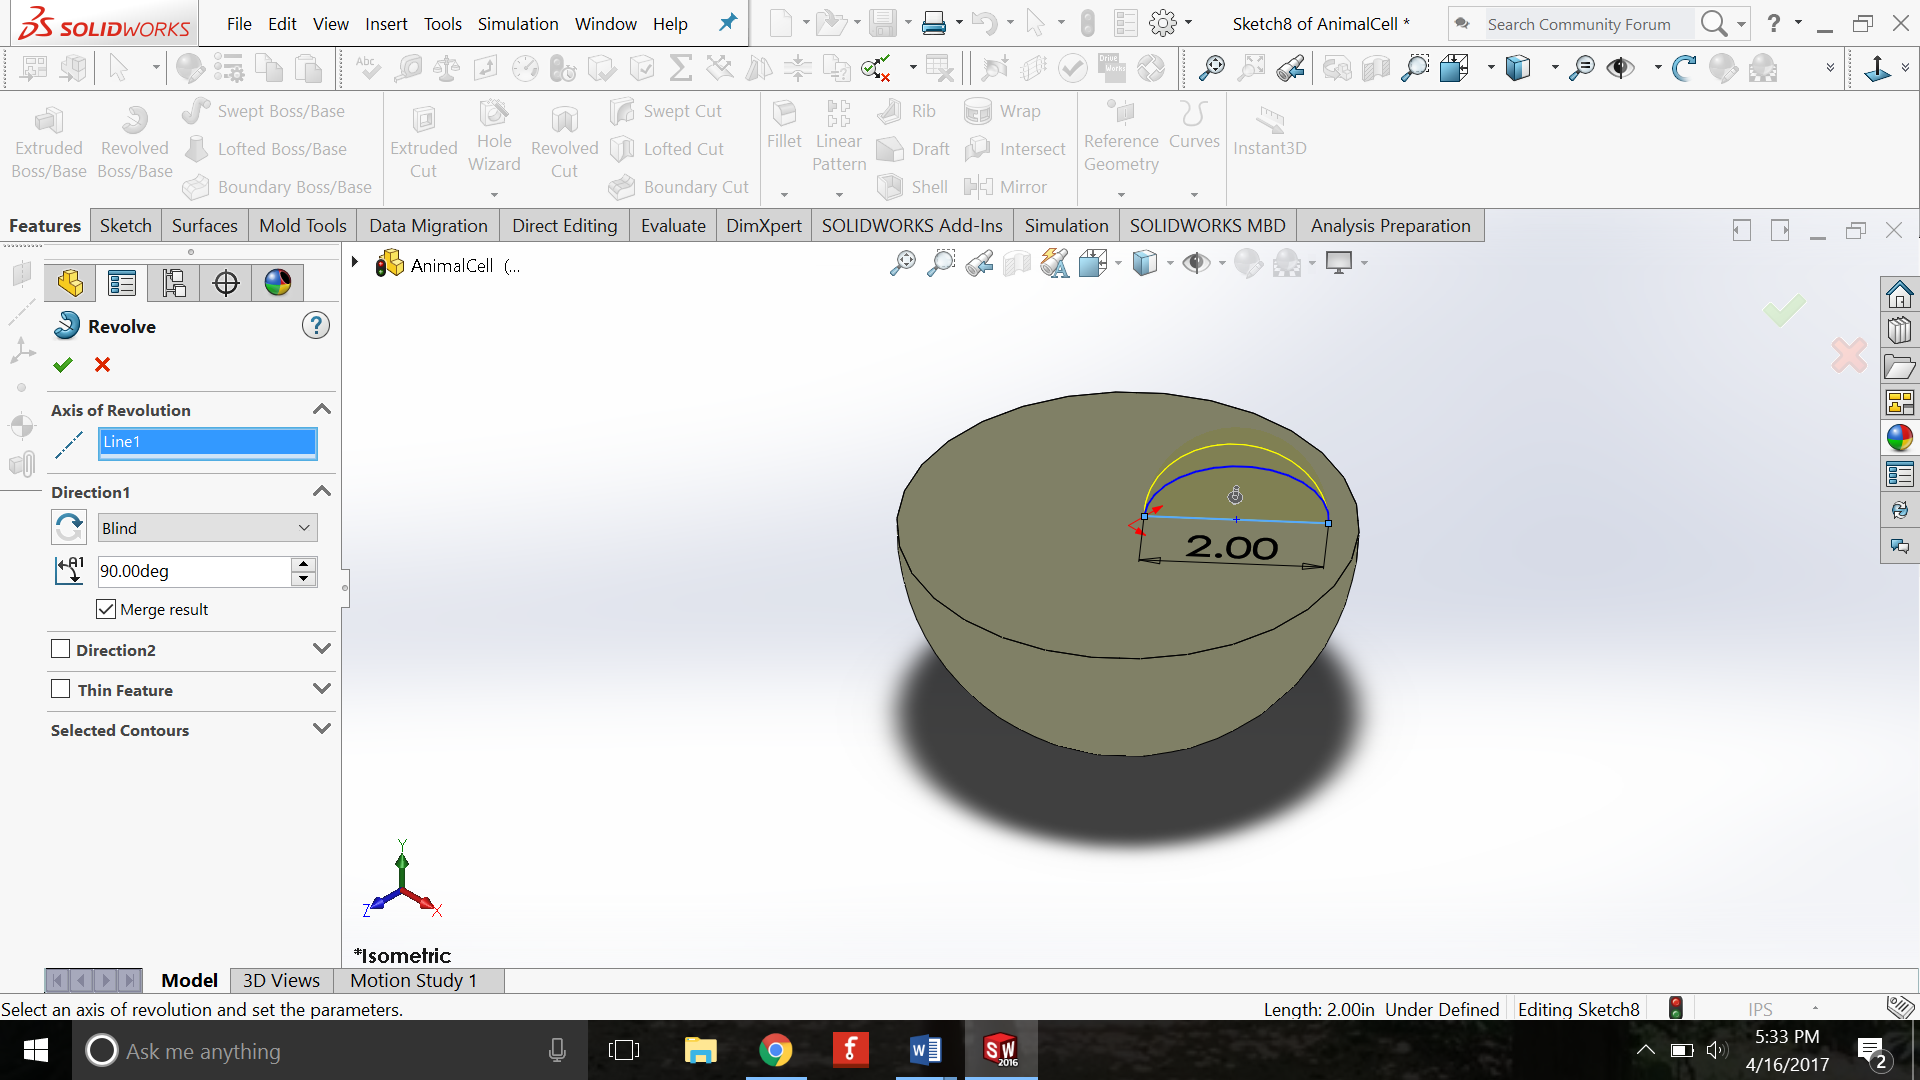
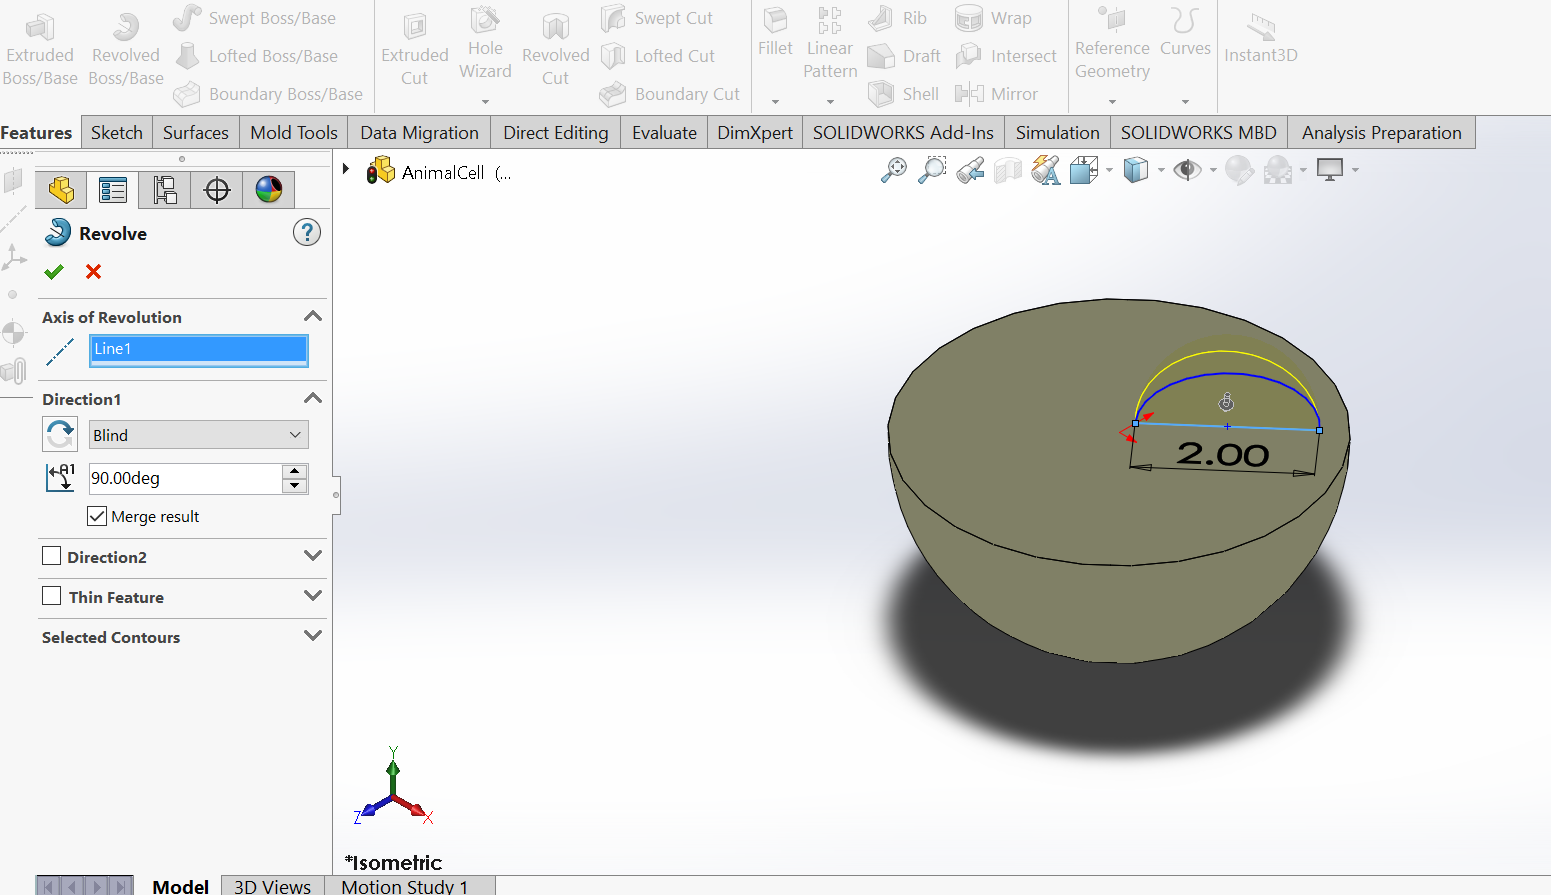
Resizing

diff --git a/AnimalCell.html b/AnimalCell.html
@@ -6,29 +6,29 @@
 <br><br>
 For this project, I collaborated with the "Feelin' DNA" club at UNC Chapel Hill to model and 3-D print an animal cell for visually impaired, elementary-school aged children. I tried to vary the textures of each organelle so they would be distinguishable simply through touch. I have been trained and certified by UNC Chapel-Hill to use a 3-D printer, and am proficient in SolidWorks, a 3-D modeling program. 
 <br><br>
-<img src="AnimalCell1.png" alt="Animal Cell Base" align="middle">
+<img src="AnimalCell1.png" alt="Animal Cell Base" height="30%" width="30%" align="middle">
 <br>
 Dimensioning the base of the half-cell. <br><br>
-<img src="AnimalCell2.png" alt="Animal Cell Base" align="middle">
+<img src="AnimalCell2.png" alt="Animal Cell Base" height="30%" width="30%" align="middle">
 <br>
 Revolving a sketch of the nucleus and nucleolus.
 
 <br><br>
-<img src="AnimalCell3.png" alt="Animal Cell with Organelle Bases" align="middle">
+<img src="AnimalCell3.png" alt="Animal Cell with Organelle Bases" height="30%" width="30%" align="middle">
 <br>
 Nucleus, nucleolus, ribosome shell, smooth endoplasmic reticulum, rough endoplasmic reticulum base
 <br><br>
-<img src="AnimalCell4.png" alt="Animal Cell with Organelles" align="middle">
+<img src="AnimalCell4.png" alt="Animal Cell with Organelles" height="30%" width="30%" align="middle">
 <br>
 A rim was added around the cell to represent the cell membrane. Extruded cylinders were added to distinguish the rough ER from the smooth ER. The rim and extrudes are large enough to be easily felt, providing a kinesthetically understandable experience.
 
 <br><br>
-<img src="AnimalCell5.png" alt="Animal Cell with Organelles align="middle">
+<img src="AnimalCell5.png" alt="Animal Cell with Organelles" height="30%" width="30%" align="middle">
 <br>
 The yellow stacked rectangles represent the centrioles. Smooth curves were added in the ribosome to differentiate between organelles. 
 
 <br><br>
-<img src="AnimalCell6.png" alt="Completed Animal Cell" align="middle">
+<img src="AnimalCell6.png" alt="Completed Animal Cell" height="30%" width="30%" align="middle">
 <br>
 Red Organelle=Mitochondria<br>
 Blue Dots= Ribosome<br>
